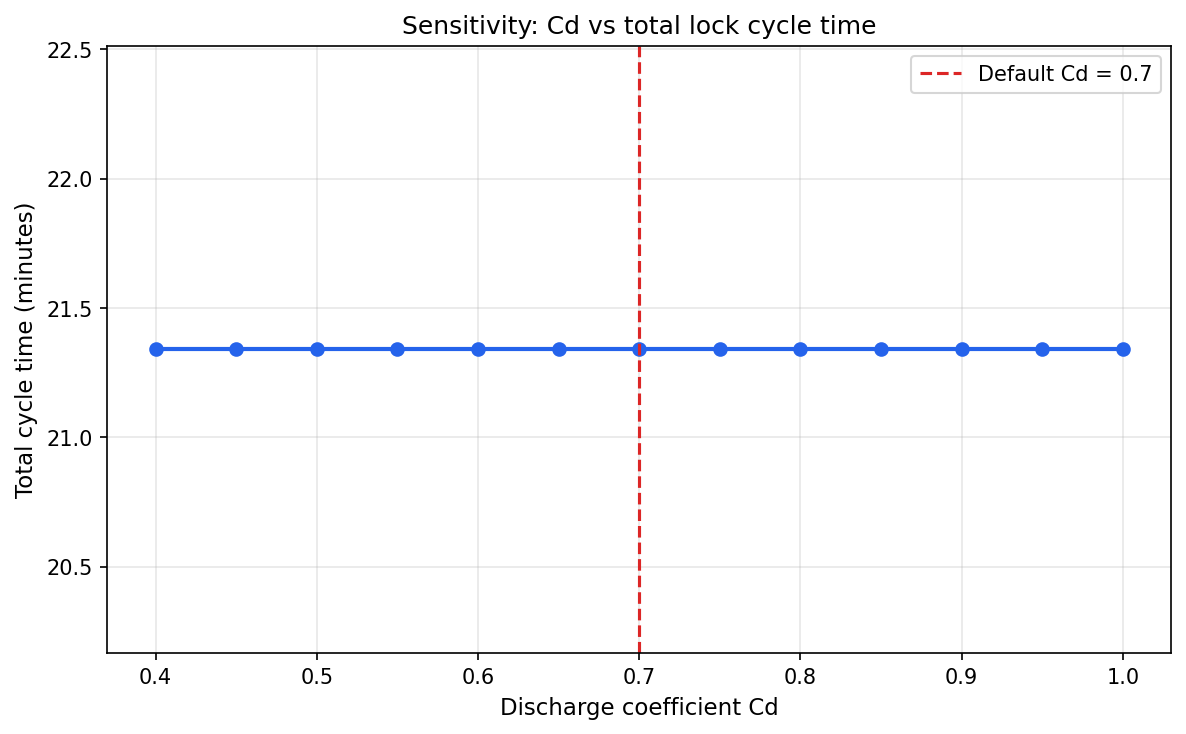
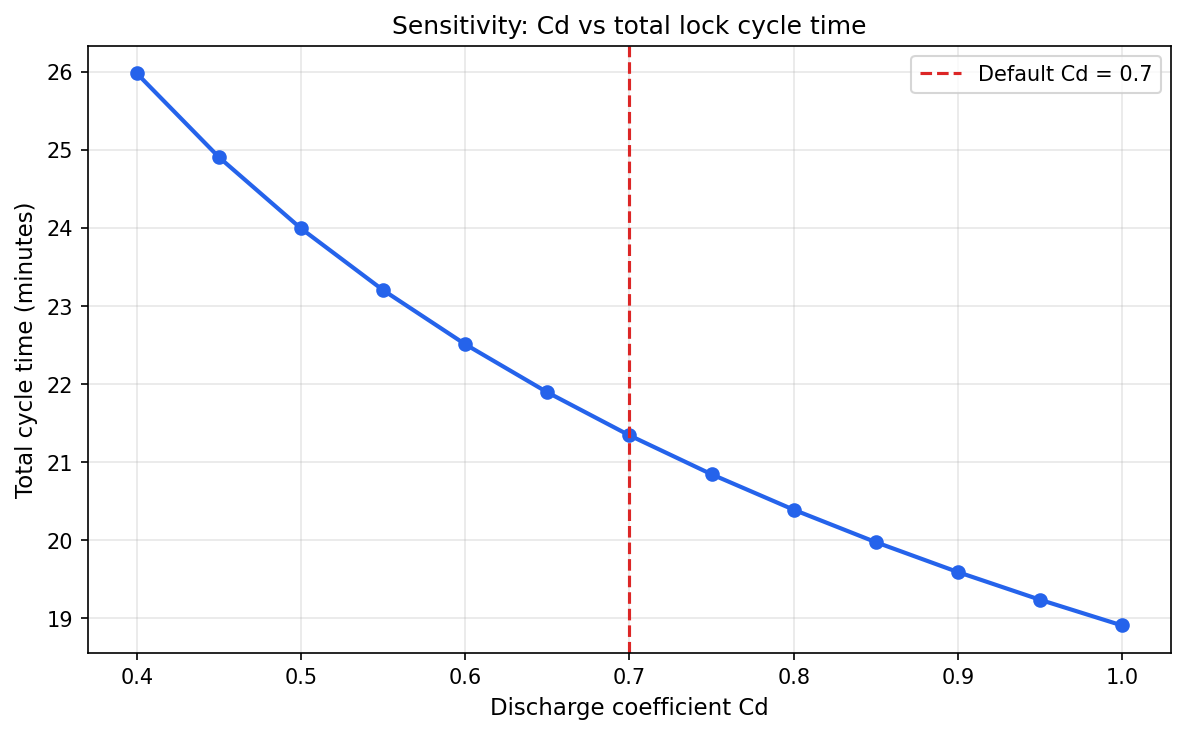
Bug patch - local Cd values to separate from visualization, also augments visualziation as a result (actually interactive now)

diff --git a/dynamics.py b/dynamics.py
@@ -8,12 +8,12 @@ Each phase specifies:
   - y_idx_fill   : index in y to fill (same as target, or -1 for sea)
 """
 import numpy as np
+import parameters as P
 from parameters import (
     G, RHO, INERTANCE, RESISTANCE,
     LOCK_AREA, BASIN_AREA,
-    A_VALVE_MAX, VALVE_OPEN_TIME,
+    A_VALVE_MAX,
     TIDE_AMPLITUDE, TIDE_OMEGA, TIDE_MEAN, TIDE_PHASE,
-    CD
 )
 
 WSB_DRAIN_1 = 'WSB drain 1 (lock→basin 3)'
@@ -36,16 +36,16 @@ def H_sea(t):
 
 def valve_area(t, t_entry):
     elapsed = t - t_entry
-    return A_VALVE_MAX * float(np.clip(elapsed / VALVE_OPEN_TIME, 0.0, 1.0))
+    return P.A_VALVE_MAX * float(np.clip(elapsed / P.VALVE_OPEN_TIME, 0.0, 1.0))
 
 def system_dynamics(t, y, phase_idx, t_entry):
     """
     phase_idx: 0,1,2,3 corresponding to PHASE_CONFIG
+    Reads P.CD and P.VALVE_OPEN_TIME dynamically so overrides work correctly.
     """
     h_l, h_b3, h_b2, h_b1, Q = y
     target_idx, fill_idx = PHASE_CONFIG[phase_idx]
 
-    # Target level
     if target_idx == -1:
         h_target = H_sea(t)
     else:
@@ -54,8 +54,7 @@ def system_dynamics(t, y, phase_idx, t_entry):
     delta_h = max(h_l - h_target, 0.0)
     Av = valve_area(t, t_entry)
 
-    # Water hammer ODE (FIXED: RHO*G scaling, valve ramp)
-    driving  = RHO * G * delta_h * CD * (Av / A_VALVE_MAX)
+    driving  = RHO * G * delta_h * P.CD * (Av / P.A_VALVE_MAX)
     friction = RESISTANCE * Q
     dQdt     = (driving - friction) / INERTANCE
 
